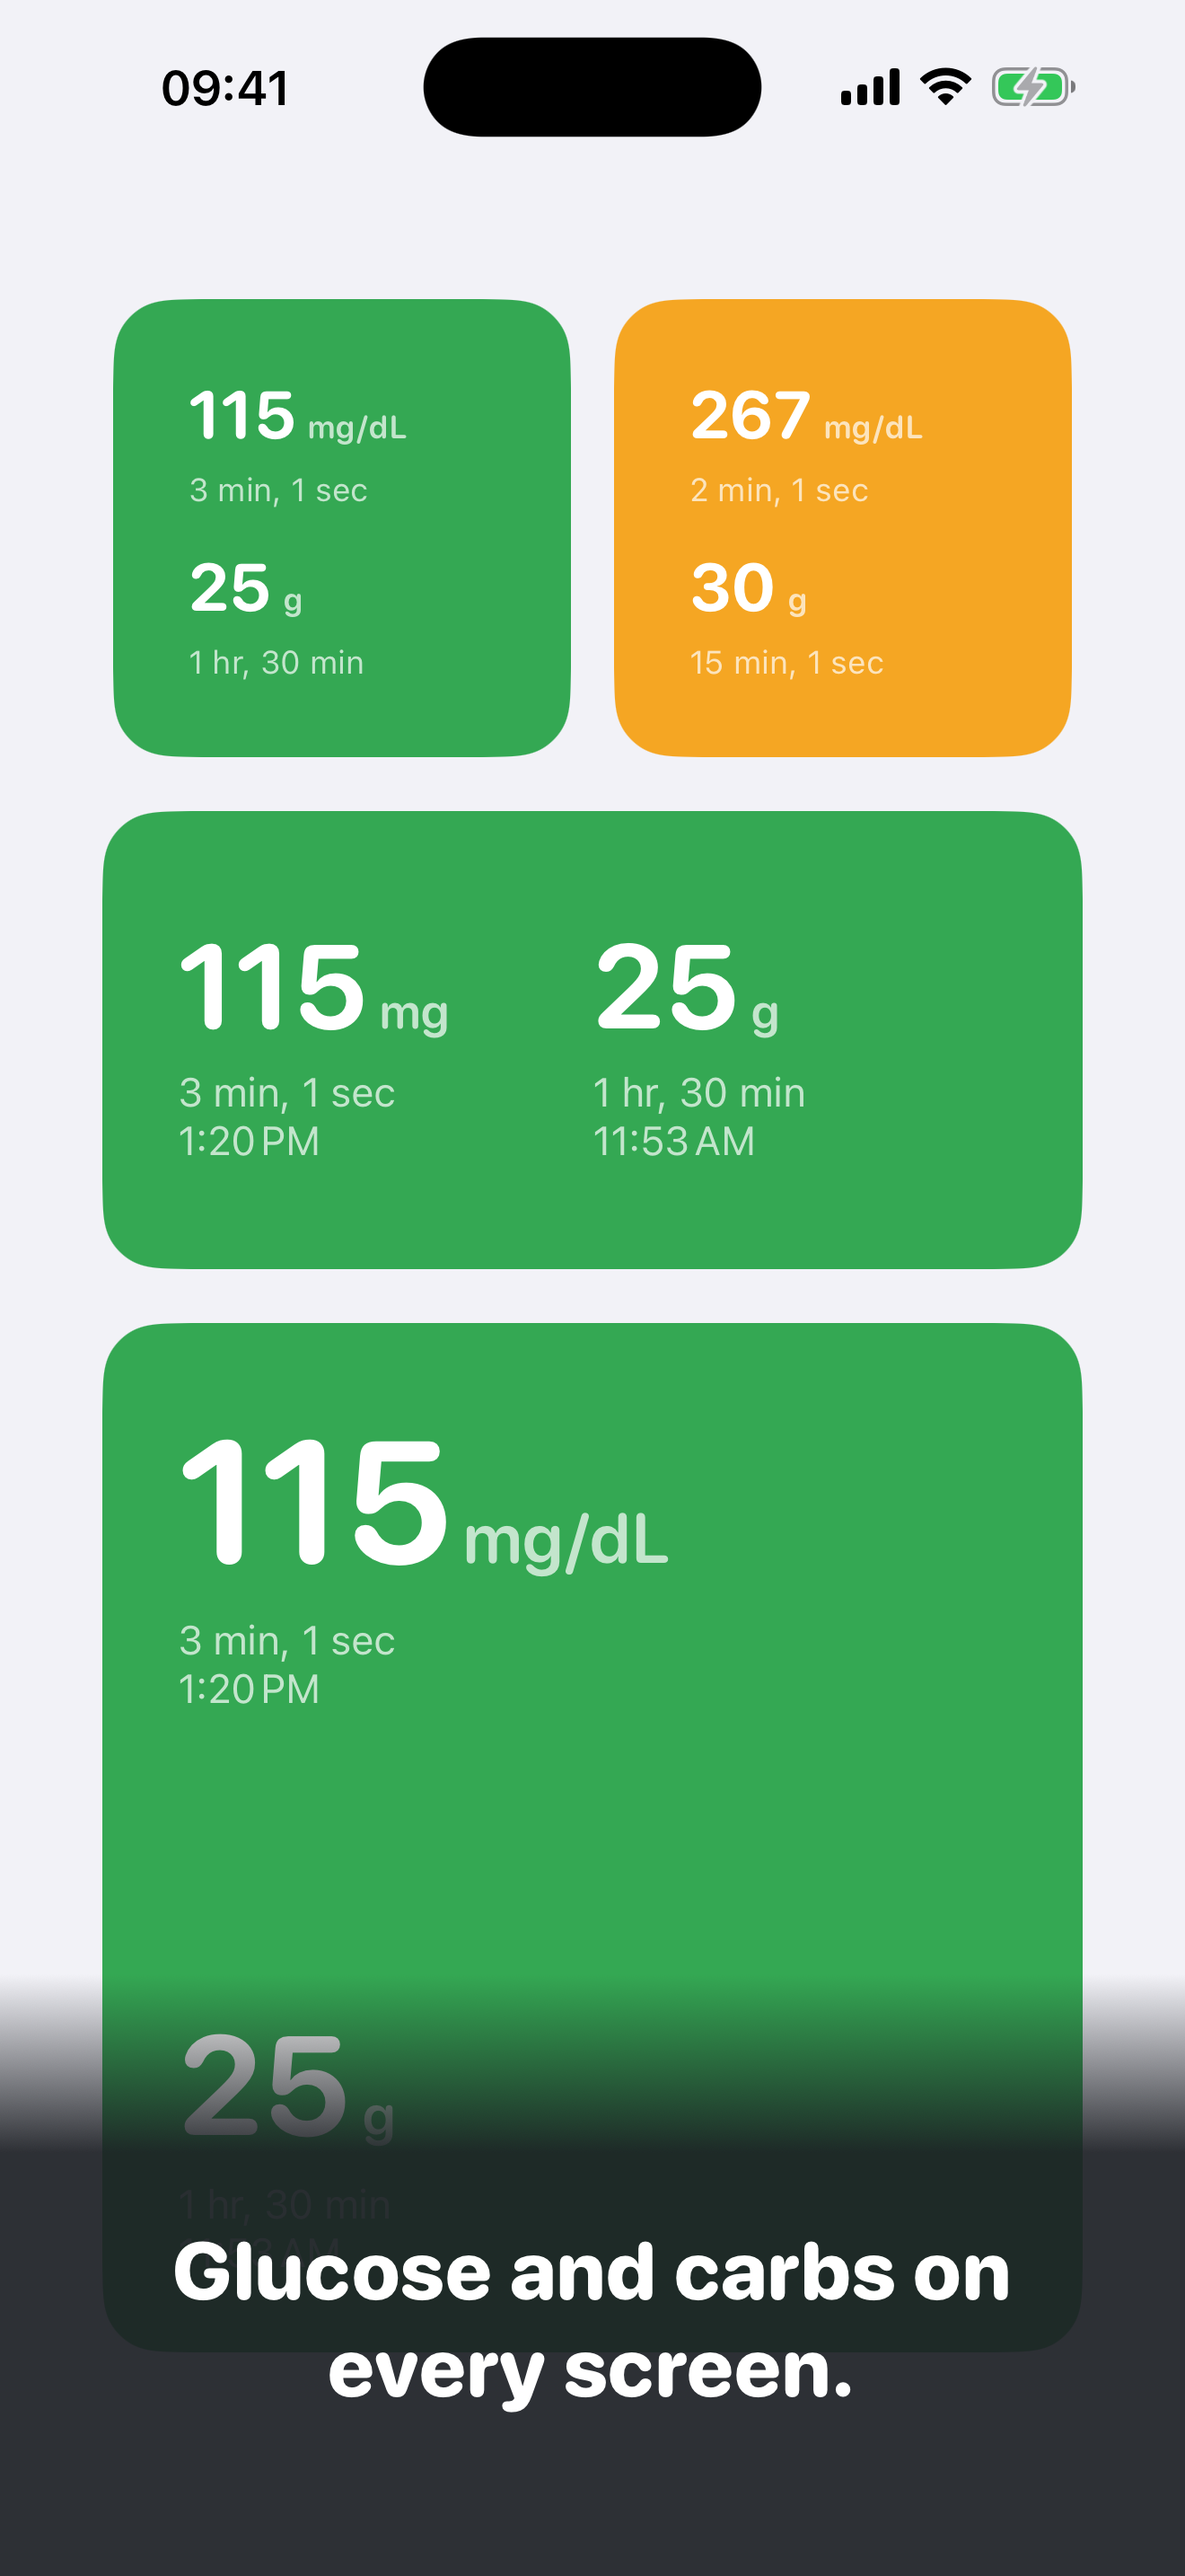
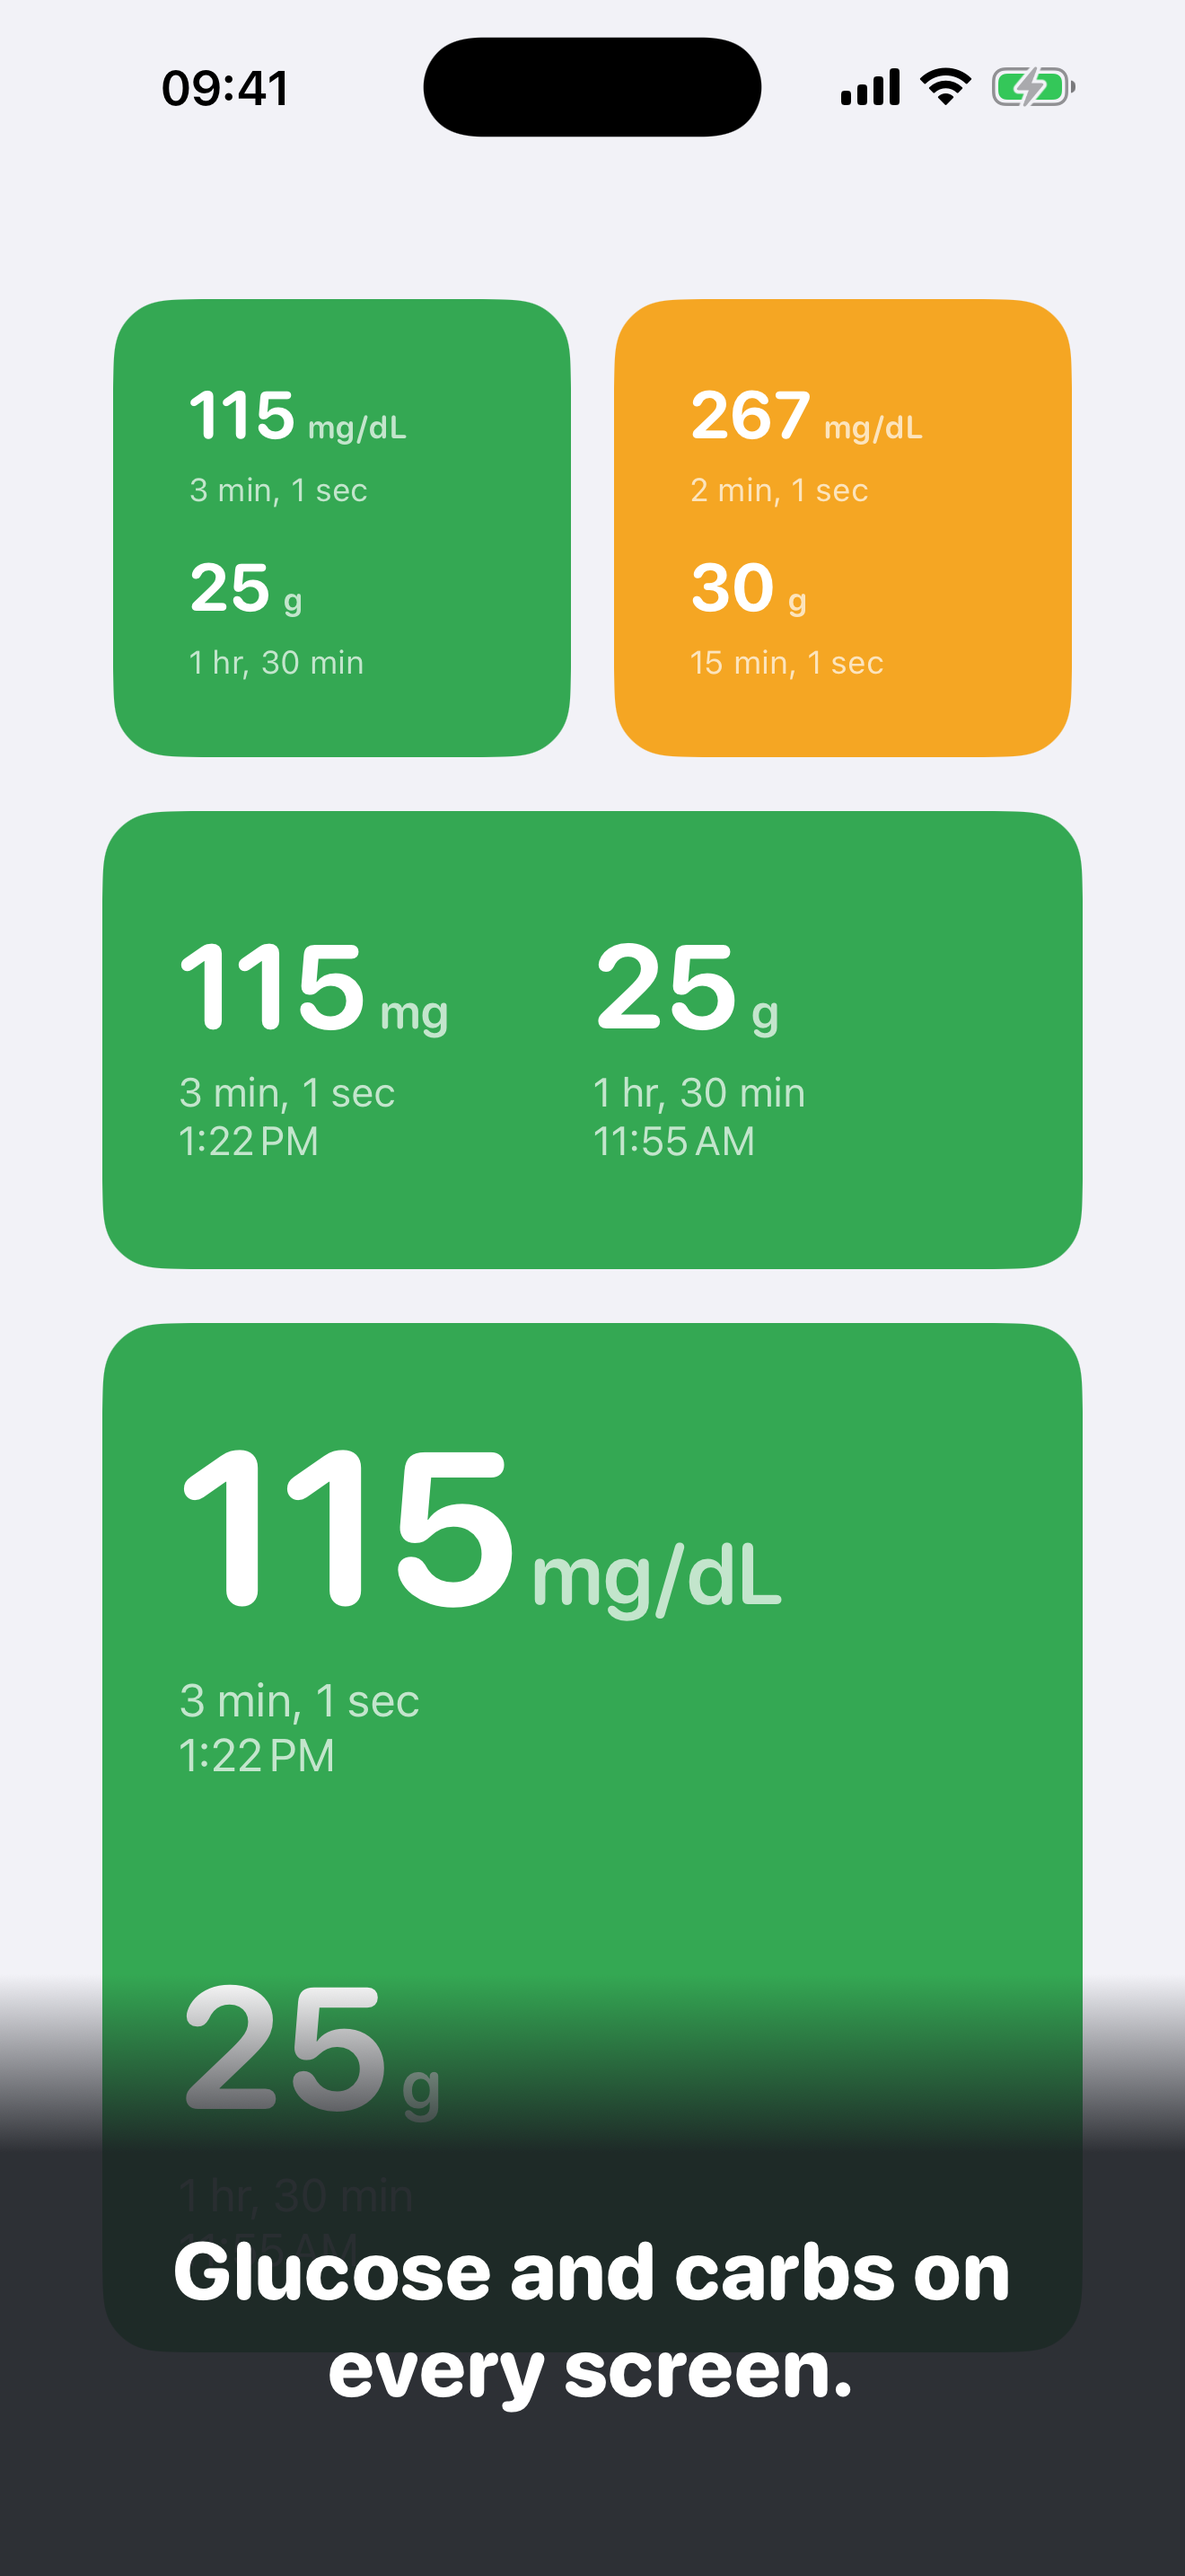
style(widgets): bump large widget typography to fill available space
The large tile had meaningful empty space below the carbs block on
a real phone (only obscured on the screenshot by the caption
banner). Scale up so the value dominates the tile at a glance:

- Glucose value 64pt → 80pt, unit 26pt → 32pt (ratio unchanged at
  0.40, so the unit still reads as a subtle label)
- Carbs value 52pt → 64pt, unit 21pt → 26pt (same ratio)
- Relative/absolute time under each value: .subheadline → .body
  (~15pt → ~17pt), so the metadata doesn't feel dwarfed under the
  80pt number
- VStack spacing inside each block 4 → 6pt to rebalance vertical
  rhythm at the new scale

`minimumScaleFactor(0.5)` is still in place on the value so any
locale that can't fit (very long mg/dL numbers at the widest
Dynamic Type setting) falls back gracefully.

Small and medium tiles are unchanged — their footprints are already
tight.

Refreshed iOS/fastlane/screenshots/{en-US,nl-NL}/04_widgets.png and
synced the docs mirror to match.

Refs #35

Changed region(s): [[0.1553, 0.5586, 0.6523, 0.6827], [0.1553, 0.7448, 0.3727, 0.8379], [0.3106, 0.6517, 0.3417, 0.6827]]

diff --git a/iOS/SharedKit/Sources/SharedKit/WidgetTileViews.swift b/iOS/SharedKit/Sources/SharedKit/WidgetTileViews.swift
@@ -177,30 +177,30 @@ public struct LargeWidgetTile: View {
     public var body: some View {
         let c = content.shieldContent
         VStack(alignment: .leading, spacing: 0) {
-            VStack(alignment: .leading, spacing: 4) {
+            VStack(alignment: .leading, spacing: 6) {
                 widgetValueWithUnit(
                     value: widgetGlucoseValue(c),
                     unit: c.glucoseUnitLabel,
-                    valueFont: .system(size: 64, weight: .bold, design: .rounded),
-                    unitFont: .system(size: 26, weight: .semibold, design: .rounded)
+                    valueFont: .system(size: 80, weight: .bold, design: .rounded),
+                    unitFont: .system(size: 32, weight: .semibold, design: .rounded)
                 )
                 widgetStackedTime(from: content.glucoseDate, hasData: c.glucoseValue > 0)
-                    .font(.subheadline)
+                    .font(.body)
                     .opacity(0.7)
             }
             .frame(maxWidth: .infinity, alignment: .leading)
 
             Spacer(minLength: 8)
 
-            VStack(alignment: .leading, spacing: 4) {
+            VStack(alignment: .leading, spacing: 6) {
                 widgetValueWithUnit(
                     value: widgetCarbsValue(c),
                     unit: "g",
-                    valueFont: .system(size: 52, weight: .bold, design: .rounded),
-                    unitFont: .system(size: 21, weight: .semibold, design: .rounded)
+                    valueFont: .system(size: 64, weight: .bold, design: .rounded),
+                    unitFont: .system(size: 26, weight: .semibold, design: .rounded)
                 )
                 widgetStackedTime(from: content.carbDate, hasData: c.carbGrams != nil)
-                    .font(.subheadline)
+                    .font(.body)
                     .opacity(0.7)
             }
             .frame(maxWidth: .infinity, alignment: .leading)
